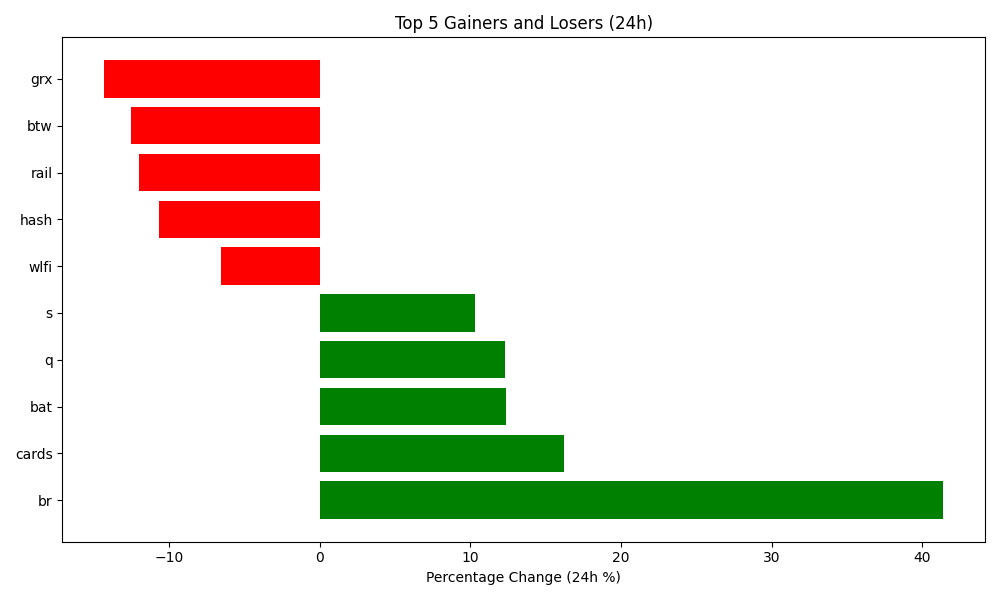
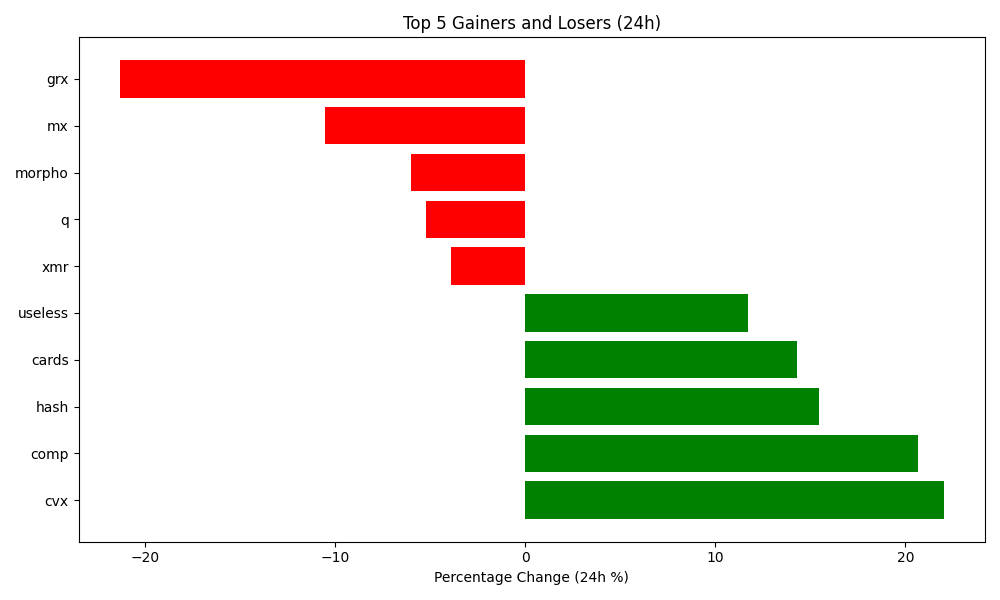
Auto-update crypto data and plot

diff --git a/README.md b/README.md
@@ -4,7 +4,7 @@ Author: Hitesh Agrawal
 This repository automatically tracks the top 5 gaining, top 5 losing, and top 5 highest volume cryptocurrencies in the last 24 hours using the CoinGecko API, Python, Matplotlib, and GitHub Actions updates the below content everyday at midnight.
 
 <!-- START_DYNAMIC_CONTENT -->
-Last updated: 2026-10-20 02:52 UTC
+Last updated: 2026-10-21 02:46 UTC
 
 ![Crypto Movers Plot](crypto_movers_plot.png)
 
@@ -12,33 +12,33 @@ Last updated: 2026-10-20 02:52 UTC
 
 | Rank | Coin | Price Change (24h %) | Volume (USD) | Current Price (USD) |
 | :--: | :--: | :------------------: | :----------: | :-----------------: |
-| 1 | br | 41.39% | $42,341,456 | $0.6237 |
-| 2 | cards | 16.22% | $23,879,342 | $0.3168 |
-| 3 | bat | 12.34% | $47,412,506 | $0.1929 |
-| 4 | q | 12.28% | $85,074,386 | $0.1250 |
-| 5 | s | 10.33% | $62,729,414 | $0.0572 |
+| 1 | cvx | 22.02% | $22,297,323 | $2.5200 |
+| 2 | comp | 20.67% | $124,461,138 | $25.6600 |
+| 3 | hash | 15.47% | $41,952 | $0.0075 |
+| 4 | cards | 14.28% | $28,754,992 | $0.3617 |
+| 5 | useless | 11.73% | $17,217,741 | $0.1583 |
 
 
 **👇 Top 5 Losers (24h)**
 
 | Rank | Coin | Price Change (24h %) | Volume (USD) | Current Price (USD) |
 | :--: | :--: | :------------------: | :----------: | :-----------------: |
-| 1 | grx | -14.28% | $3,104,696 | $20.2700 |
-| 2 | btw | -12.55% | $42,145,776 | $1.9700 |
-| 3 | rail | -11.96% | $1,625,937 | $2.1700 |
-| 4 | hash | -10.68% | $71,427 | $0.0065 |
-| 5 | wlfi | -6.56% | $47,070,595 | $0.0539 |
+| 1 | grx | -21.35% | $2,668,261 | $15.9400 |
+| 2 | mx | -10.56% | $8,853,517 | $1.7200 |
+| 3 | morpho | -6.02% | $25,518,874 | $2.3100 |
+| 4 | q | -5.24% | $15,062,990 | $0.1180 |
+| 5 | xmr | -3.90% | $181,462,836 | $576.2300 |
 
 
 **💎 Top 5 by Trade Volume (24h)**
 
 | Rank | Coin | Price Change (24h %) | Volume (USD) | Current Price (USD) |
 | :--: | :--: | :------------------: | :----------: | :-----------------: |
-| 1 | usdt | -0.00% | $47,060,305,907 | $0.9992 |
-| 2 | btc | -1.13% | $25,563,154,707 | $81,715.0000 |
-| 3 | usdc | 0.02% | $16,454,660,231 | $1.0000 |
-| 4 | eth | -1.28% | $9,192,995,694 | $2,398.2100 |
-| 5 | sol | -0.40% | $2,540,339,539 | $105.0500 |
+| 1 | usdt | -0.01% | $51,170,859,433 | $0.9992 |
+| 2 | btc | 1.38% | $27,653,377,689 | $82,712.0000 |
+| 3 | usdc | -0.02% | $15,073,793,747 | $0.9997 |
+| 4 | eth | 2.24% | $11,670,803,725 | $2,446.6900 |
+| 5 | sol | 1.32% | $2,717,917,195 | $106.1300 |
 
 
 <!-- END_DYNAMIC_CONTENT -->
